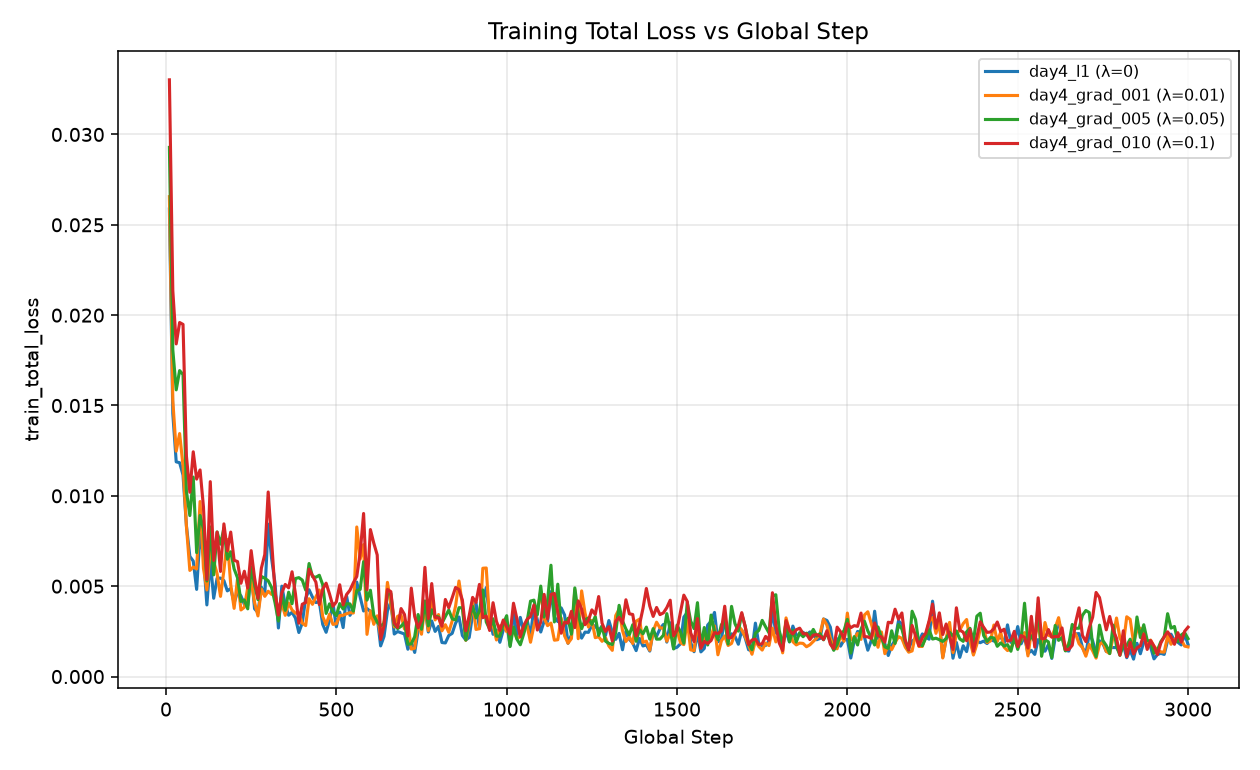
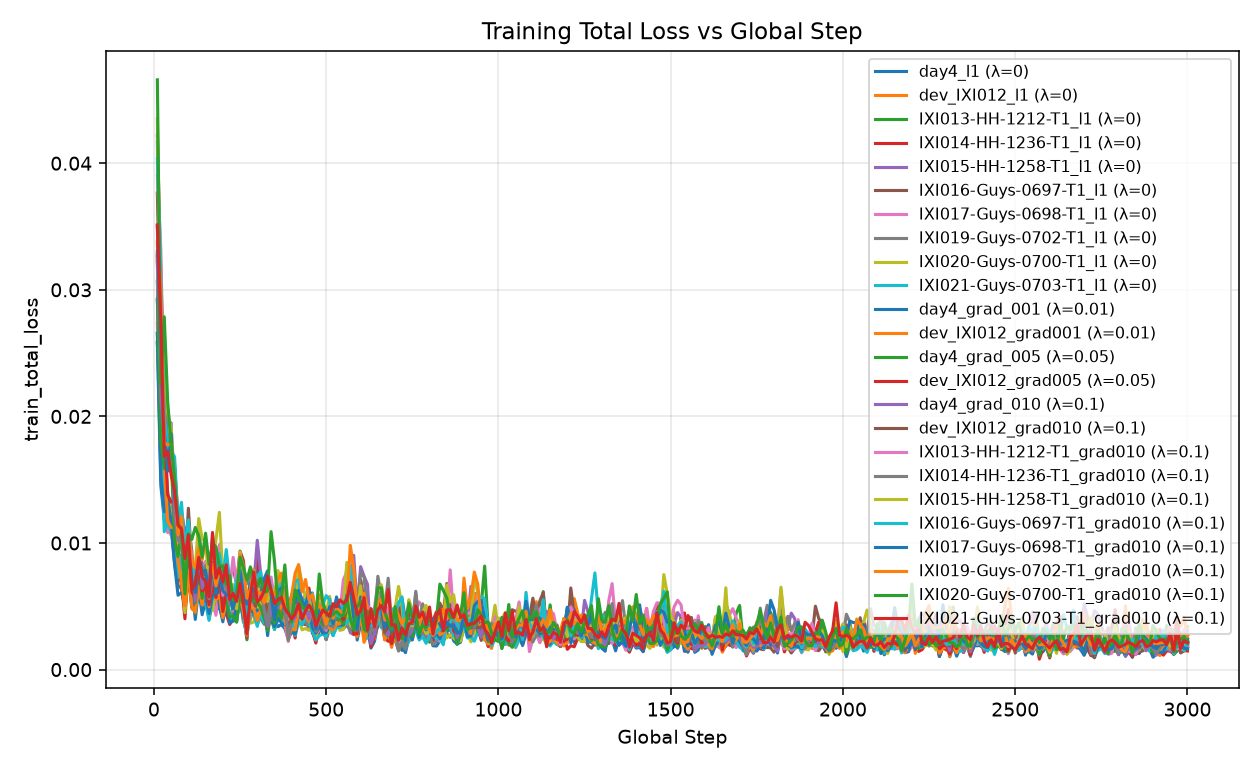
day5: multi-subject results and structural analysis

diff --git a/README.md b/README.md
@@ -1,4 +1,4 @@
-# MRI-SR：SMORE 自监督 MRI 超分辨率（Day 1–4）
+# MRI-SR：SMORE 自监督 MRI 超分辨率（Day 1–5）
 
 本项目为医学大数据与人工智能课程项目，研究方向是 MRI 超分辨率重建，
 参考 **SMORE: A Self-Supervised Anti-Aliasing and Super-Resolution Algorithm
@@ -10,7 +10,8 @@ for MRI Using Deep Learning**（IEEE TMI, 2021）的 SMORE(3D) 思路。
 - Day 2：through-plane 各向异性退化 + Sinc 插值 baseline + PSNR/SSIM（已完成）。
 - Day 3：简化 SMORE(3D) 自监督训练 + 推理 + 与 Sinc 对比（已完成）。
 - Day 4：Sobel Gradient Loss、训练曲线记录（TensorBoard/CSV/PNG）、初步消融（已完成）。
-- 尚未开始：多方向集成、SAA 去混叠网络、扩大数据、正式消融。
+- Day 5：多受试者（10 例）正式对比与消融、结构保真分析（已完成）。
+- 尚未开始：多方向集成、SAA 去混叠网络。
 
 ---
 
@@ -511,3 +512,59 @@ tensorboard --logdir .\results\tensorboard --port 6006
 - 重建：`data/processed/IXI002-Guys-0828-T1/*_smore_day4_*.nii.gz`
 - 对比图：`results/figures/comparison/`
 - 指标：`results/day4_metrics.json`
+
+---
+
+## 13. Day 5：多受试者正式对比与消融
+
+### 13.1 实验协议
+
+- **数据**：10 名 IXI T1（`data/raw/ixi/`），开发集 = IXI002/IXI012，测试集 = 8 名
+  （IXI013/014/015/016/017/019/020/021）。划分见 `configs/day5_experiment.yaml`。
+- **退化**：r=2，through-plane 轴 = R（axis 0），gaussian 抗混叠，与 Day 2 一致。
+- **方法**：Sinc、SMORE-L1（λ=0）、SMORE-Grad（λ=0.10，Sobel 梯度损失）。
+- **λ 选择**：开发集上自监督 val L1 无稳定差异（弱/模糊），取最强约束 λ=0.10 为代表。
+- **公平性**：同种子 42、同 3000 步、同 Adam/lr/batch，HR 只在最终评价读取。
+
+### 13.2 正式结果（8 名独立测试受试者，mean ± std，配对 Wilcoxon）
+
+| Method | PSNR (dB) | SSIM | MAE | GradMAE（边缘误差） |
+|---|---:|---:|---:|---:|
+| Sinc | 30.50 ± 2.19 | 0.9291 | 104.0 | 489.96 |
+| SMORE-L1 | 30.81 ± 2.28 | 0.9338 | 100.3 | 375.77 |
+| SMORE-Grad (λ=0.10) | 30.82 ± 2.28 | 0.9340 | 100.2 | 374.94 |
+
+配对差异（Wilcoxon signed-rank，n=8）：
+
+- SMORE-L1 vs Sinc：ΔPSNR **+0.316 dB**（p=0.008），ΔSSIM **+0.0047**（p=0.008），
+  ΔGradMAE **-114.2**（p=0.008，即边缘误差 -23%）→ **显著且一致优于 Sinc**。
+- SMORE-Grad vs SMORE-L1：ΔPSNR +0.007 dB（p=0.016），ΔGradMAE -0.83（p=0.039）
+  → 统计上可检出，但**幅度极小、无实际意义**。
+
+### 13.3 研究结论（诚实）
+
+1. **SMORE（任何变体）显著优于 Sinc**：8/8 受试者 PSNR/SSIM 提升、边缘误差下降，
+   是稳健的结论。
+2. **Sobel 梯度损失没有带来可观的额外增益**：相对纯 L1 仅 +0.007 dB、边缘误差 -0.2%，
+   在 n=8 下虽统计显著，但实际可忽略；与 Day 4 单受试者结论一致。
+3. 未发现改进方法在任一受试者上明显更差的失败案例（Grad 在 8 例中均 ≥ L1 或持平）。
+4. 未声称"梯度损失抑制医学幻觉"；边缘误差仅作为"结构保真代理指标"。
+
+### 13.4 产物
+
+- 指标：`results/metrics/per_subject.csv`、`summary.csv`、`ablation.csv`、`day5_metrics.json`
+- 结构保真图：`results/figures/error_maps/`（切片/绝对误差/梯度误差 + 局部放大）
+- 受试者清单与协议：`configs/day5_experiment.yaml`
+- 训练日志：`results/logs/csv/<subject>_{l1,grad010}_*.csv`、`results/day5_train_log.txt`
+
+### 13.5 复现命令
+
+```powershell
+python scripts/fetch_ixi_partial.py --n 10               # 获取 10 例 IXI T1
+python scripts/eval_interpolation.py --r 2 --axis 0 --filter gaussian   # Day 2 退化
+# 每个受试者训练 L1 与 Grad（λ=0.10），再推理：
+python scripts/train_smore.py --loss l1 --g-path data/processed/<s>/<s>_sinc_r2.nii.gz --experiment-name <s>_l1
+python scripts/train_smore.py --loss l1_grad --lambda-grad 0.10 --g-path data/processed/<s>/<s>_sinc_r2.nii.gz --experiment-name <s>_grad010
+python scripts/eval_multisubject.py --subjects <8 个测试受试者>
+python scripts/analyze_structure.py --subject IXI016-Guys-0697-T1
+```
